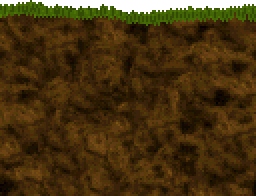
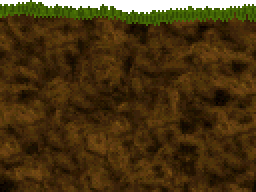
Parallax optimization; UI init fixed

diff --git a/public/engine/js/parallax.js b/public/engine/js/parallax.js
@@ -61,22 +61,21 @@ var Lich;
         Parallax.prototype.shift = function () {
             var self = this;
             self.sprites.forEach(function (part, i) {
-                part.tilePosition.x = Lich.Utils.floor((self.offsetX * Parallax.MULT[i]) % self.sprites[i].originalWidth);
+                part.x = Lich.Utils.floor((self.offsetX * Parallax.MULT[i]) % self.sprites[i].originalWidth) - part.originalWidth;
                 part.y = Lich.Utils.floor(self.offsetY * Parallax.MULT[i] + Parallax.STARTS[i] * Parallax.MULT[i]);
             });
             // Dirt back
-            self.dirtBackSprite.tilePosition.x = Lich.Utils.floor(((self.offsetX * Parallax.DIRT_MULT) % self.dirtBackSprite.originalWidth) - self.dirtBackSprite.originalWidth);
+            self.dirtBackSprite.x = Lich.Utils.floor(((self.offsetX * Parallax.DIRT_MULT) % self.dirtBackSprite.originalWidth) - self.dirtBackSprite.originalWidth);
             var tillRepeatPointY = Lich.Utils.floor((self.offsetY + Parallax.DIRT_START) * Parallax.DIRT_MULT);
             if (tillRepeatPointY < 0) {
-                self.dirtBackSprite.y = 0;
-                self.dirtBackSprite.tilePosition.y = Lich.Utils.floor(tillRepeatPointY % self.dirtBackSprite.originalHeight);
+                self.dirtBackSprite.y = Lich.Utils.floor(tillRepeatPointY % self.dirtBackSprite.originalHeight) - self.dirtBackSprite.originalHeight;
             }
             else {
                 self.dirtBackSprite.y = tillRepeatPointY;
             }
             // Start pozadí hlíny kopíruje hlavní část pozadí
             // navíc je přilepen před počátek hlavní části
-            self.dirtBackStartSprite.tilePosition.x = self.dirtBackSprite.tilePosition.x;
+            self.dirtBackStartSprite.x = self.dirtBackSprite.x;
             self.dirtBackStartSprite.y = self.dirtBackSprite.y - self.dirtBackStartSprite.originalHeight;
             // Clouds
             // for (var i = 0; i < self.clouds.length; i++) {

diff --git a/public/engine/ts/parallax.ts b/public/engine/ts/parallax.ts
@@ -93,23 +93,22 @@ namespace Lich {
             var self = this;
 
             self.sprites.forEach((part: ParallaxSprite, i) => {
-                part.tilePosition.x = Utils.floor((self.offsetX * Parallax.MULT[i]) % self.sprites[i].originalWidth);
+                part.x = Utils.floor((self.offsetX * Parallax.MULT[i]) % self.sprites[i].originalWidth) - part.originalWidth;
                 part.y = Utils.floor(self.offsetY * Parallax.MULT[i] + Parallax.STARTS[i] * Parallax.MULT[i]);
             });
 
             // Dirt back
-            self.dirtBackSprite.tilePosition.x = Utils.floor(((self.offsetX * Parallax.DIRT_MULT) % self.dirtBackSprite.originalWidth) - self.dirtBackSprite.originalWidth);
+            self.dirtBackSprite.x = Utils.floor(((self.offsetX * Parallax.DIRT_MULT) % self.dirtBackSprite.originalWidth) - self.dirtBackSprite.originalWidth);
             let tillRepeatPointY = Utils.floor((self.offsetY + Parallax.DIRT_START) * Parallax.DIRT_MULT);
             if (tillRepeatPointY < 0) {
-                self.dirtBackSprite.y = 0;
-                self.dirtBackSprite.tilePosition.y = Utils.floor(tillRepeatPointY % self.dirtBackSprite.originalHeight);
+                self.dirtBackSprite.y = Utils.floor(tillRepeatPointY % self.dirtBackSprite.originalHeight) - self.dirtBackSprite.originalHeight;
             } else {
                 self.dirtBackSprite.y = tillRepeatPointY;
             }
 
             // Start pozadí hlíny kopíruje hlavní část pozadí
             // navíc je přilepen před počátek hlavní části
-            self.dirtBackStartSprite.tilePosition.x = self.dirtBackSprite.tilePosition.x;
+            self.dirtBackStartSprite.x = self.dirtBackSprite.x;
             self.dirtBackStartSprite.y = self.dirtBackSprite.y - self.dirtBackStartSprite.originalHeight;
 
             // Clouds

diff --git a/public/engine/js/world.js b/public/engine/js/world.js
@@ -99,7 +99,8 @@ var Lich;
             self.addChild(self.entitiesCont);
             // Weather
             self.weather = new Lich.Weather(game);
-            self.addChild(self.weather);
+            if (Lich.Resources.OPTMZ_WEATHER_SHOW_ON)
+                self.addChild(self.weather);
             // Fog cont
             self.fogSectorsCont = new PIXI.particles.ParticleContainer(Lich.Render.getFogContSizeW(self.game.getSceneWidth()) * Lich.Render.getFogContSizeH(self.game.getSceneHeight()), {
                 rotation: false,
@@ -1224,13 +1225,13 @@ var Lich;
                     }
                 }
             })();
-            self.render.handleTick();
-            self.weather.update(delta);
             self.hero.handleTick(delta);
             self.enemies.forEach(function (enemy) {
                 if (enemy)
                     enemy.handleTick(delta);
             });
+            self.weather.update(delta);
+            self.render.handleTick();
             // TODO cooldown - delta pro všechny položky spell v hráčovi a všech nepřátel
             var rmbCooldown = self.hero.spellCooldowns[Lich.SpellKey.SPELL_INTERACT_KEY];
             if (!rmbCooldown) {

diff --git a/public/engine/ts/world.ts b/public/engine/ts/world.ts
@@ -119,7 +119,8 @@ namespace Lich {
 
             // Weather
             self.weather = new Weather(game);
-            self.addChild(self.weather);
+            if (Resources.OPTMZ_WEATHER_SHOW_ON)
+                self.addChild(self.weather);
 
             // Fog cont
             self.fogSectorsCont = new PIXI.particles.ParticleContainer(
@@ -391,7 +392,7 @@ namespace Lich {
         private checkReveal() {
             if (!Resources.OPTMZ_FOG_PROCESS_ON)
                 return;
-                
+
             let self = this;
             let coord = self.render.pixelsToTiles(self.hero.x, self.hero.y);
 
@@ -1311,13 +1312,13 @@ namespace Lich {
                 }
             })();
 
-            self.render.handleTick();
-            self.weather.update(delta);
             self.hero.handleTick(delta);
             self.enemies.forEach(function (enemy) {
                 if (enemy)
                     enemy.handleTick(delta);
             });
+            self.weather.update(delta);
+            self.render.handleTick();
 
             // TODO cooldown - delta pro všechny položky spell v hráčovi a všech nepřátel
 

diff --git a/public/engine/js/resources.js b/public/engine/js/resources.js
@@ -455,7 +455,7 @@ var Lich;
             var spriteDef = self.spriteItemDefsBySheetByName[stringSheetKey][spriteName];
             var spriteSheet = new PIXI.Texture(self.spritesheetByKeyMap[stringSheetKey]);
             spriteSheet.frame = new PIXI.Rectangle(spriteDef.x, spriteDef.y, spriteDef.width, spriteDef.height);
-            var tilingSprite = new ParallaxSprite(spriteSheet, width, height ? height : spriteDef.height);
+            var tilingSprite = new ParallaxSprite(spriteSheet, width + spriteDef.width * 2, height ? height + spriteDef.height * 2 : spriteDef.height);
             tilingSprite.originalHeight = spriteDef.height;
             tilingSprite.originalWidth = spriteDef.width;
             // tilingSprite.cacheAsBitmap = true;
@@ -527,6 +527,7 @@ var Lich;
     Resources.OPTMZ_UI_SHOW_ON = true;
     Resources.OPTMZ_FOG_SHOW_ON = true;
     Resources.OPTMZ_FOG_PROCESS_ON = true;
+    Resources.OPTMZ_WEATHER_SHOW_ON = false;
     Resources.FONT = "expressway";
     Resources.TEXT_COLOR = "#FF0";
     Resources.OUTLINE_COLOR = "#000";

diff --git a/public/engine/ts/resources.ts b/public/engine/ts/resources.ts
@@ -95,6 +95,7 @@ namespace Lich {
         static OPTMZ_UI_SHOW_ON = true;
         static OPTMZ_FOG_SHOW_ON = true;
         static OPTMZ_FOG_PROCESS_ON = true;
+        static OPTMZ_WEATHER_SHOW_ON = false;
 
         static FONT = "expressway";
         static TEXT_COLOR = "#FF0";
@@ -568,7 +569,7 @@ namespace Lich {
             let spriteDef = self.spriteItemDefsBySheetByName[stringSheetKey][spriteName];
             let spriteSheet = new PIXI.Texture(self.spritesheetByKeyMap[stringSheetKey]);
             spriteSheet.frame = new PIXI.Rectangle(spriteDef.x, spriteDef.y, spriteDef.width, spriteDef.height);
-            let tilingSprite = new ParallaxSprite(spriteSheet, width, height ? height : spriteDef.height);
+            let tilingSprite = new ParallaxSprite(spriteSheet, width + spriteDef.width * 2, height ? height + spriteDef.height * 2 : spriteDef.height);
             tilingSprite.originalHeight = spriteDef.height;
             tilingSprite.originalWidth = spriteDef.width;
             // tilingSprite.cacheAsBitmap = true;

diff --git a/public/engine/js/game.js b/public/engine/js/game.js
@@ -146,13 +146,13 @@ var Lich;
                         self.parallax = new Lich.Parallax();
                         self.stage.addChild(self.parallax);
                     }
+                    if (Lich.Resources.OPTMZ_UI_SHOW_ON)
+                        self.ui = new Lich.UI(self.renderer.view, tilesMap, mobile);
                     self.world = new Lich.World(self, tilesMap);
                     self.stage.addChild(self.world);
                     self.stage.addChild(self.hitLayer);
-                    if (Lich.Resources.OPTMZ_UI_SHOW_ON) {
-                        self.ui = new Lich.UI(self.renderer.view, tilesMap, mobile);
+                    if (Lich.Resources.OPTMZ_UI_SHOW_ON)
                         self.stage.addChild(self.ui);
-                    }
                     Lich.EventBus.getInstance().registerConsumer(Lich.EventType.SAVE_WORLD, function () {
                         setTimeout(function () {
                             var idb = Lich.IndexedDB.getInstance();

diff --git a/public/engine/ts/game.ts b/public/engine/ts/game.ts
@@ -201,13 +201,13 @@ namespace Lich {
                         self.parallax = new Parallax();
                         self.stage.addChild(self.parallax);
                     }
+                    if (Resources.OPTMZ_UI_SHOW_ON)
+                        self.ui = new UI(self.renderer.view, tilesMap, mobile);
                     self.world = new World(self, tilesMap);
                     self.stage.addChild(self.world);
                     self.stage.addChild(self.hitLayer);
-                    if (Resources.OPTMZ_UI_SHOW_ON) {
-                        self.ui = new UI(self.renderer.view, tilesMap, mobile);
+                    if (Resources.OPTMZ_UI_SHOW_ON)
                         self.stage.addChild(self.ui);
-                    }
 
                     EventBus.getInstance().registerConsumer(EventType.SAVE_WORLD, (): boolean => {
                         setTimeout(() => {
